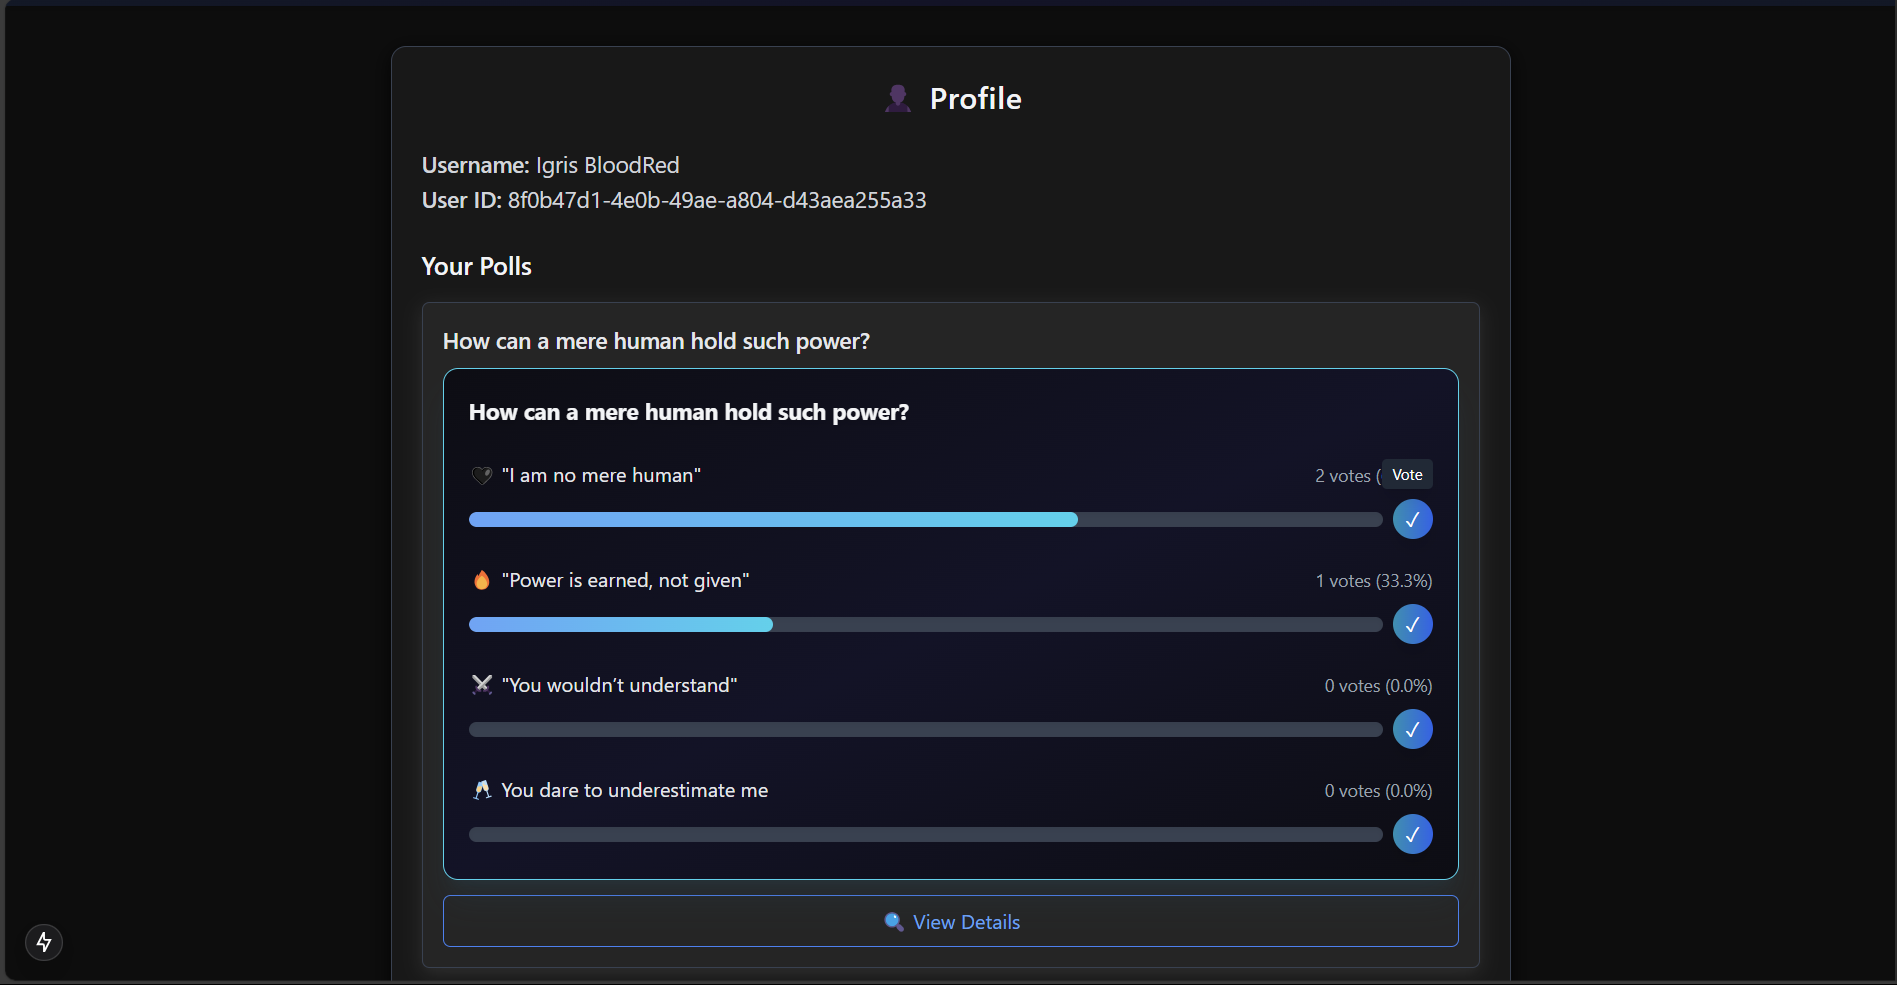
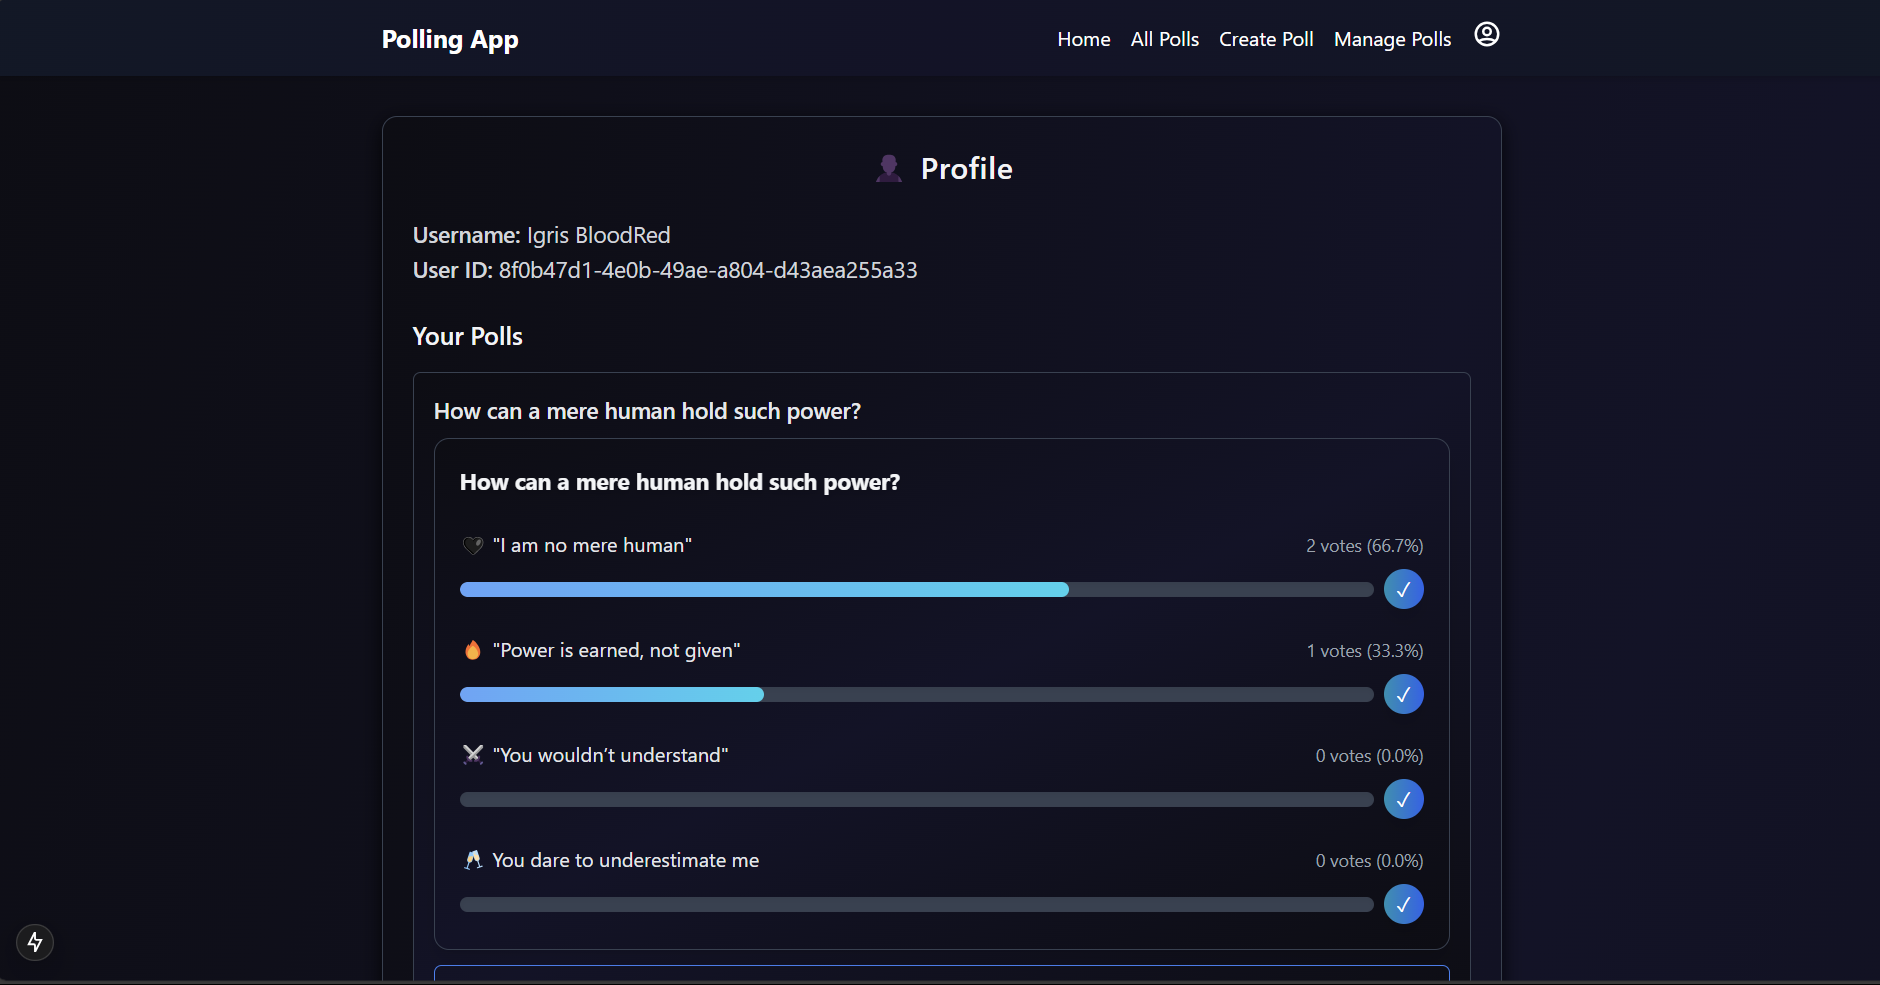
changed profile styles and added profile image

diff --git a/frontend/app/profile/page.tsx b/frontend/app/profile/page.tsx
@@ -71,9 +71,9 @@ const ProfilePage = () => {
   if (error) return <div className="text-red-400 text-center p-4">{error}</div>;
 
   return (
-    <div className="min-h-screen bg-[#0D0D0D] text-gray-200">
+    <div className="min-h-screen bg-gradient-to-br from-[#0d0d14] via-[#131328] to-[#0d0d14] text-gray-200">
       <Navbar />
-      <div className="max-w-4xl mx-auto p-6 mt-8 bg-[#181818] rounded-xl shadow-[0_4px_15px_rgba(0,0,0,0.8)] border border-gray-700">
+      <div className="max-w-4xl mx-auto p-6 mt-8 bg-gradient-to-br from-[#0d0d14] via-[#131328] to-[#0d0d14] rounded-xl shadow-[0_4px_15px_rgba(0,0,0,0.8)] border border-gray-700">
         <h1 className="text-2xl font-semibold text-gray-100 mb-6 text-center tracking-wide">
           👤 Profile
         </h1>
@@ -96,7 +96,7 @@ const ProfilePage = () => {
             {polls.map((poll) => (
               <div
                 key={poll.id}
-                className="border border-gray-700 p-4 rounded-md bg-[#252525] shadow-md hover:shadow-[0_4px_15px_rgba(255,255,255,0.1)] transition-shadow duration-300"
+                className="border border-gray-700 p-4 rounded-md bg-gradient-to-br from-[#0d0d14] via-[#131328] to-[#0d0d14] shadow-md hover:shadow-[0_4px_15px_rgba(255,255,255,0.1)] transition-shadow duration-300"
               >
                 <h3 className="text-lg font-semibold text-gray-200 mb-2">{poll.title}</h3>
                 <PollCard poll={poll} hasVoted={poll.isClosed} onVote={() => {}} />
